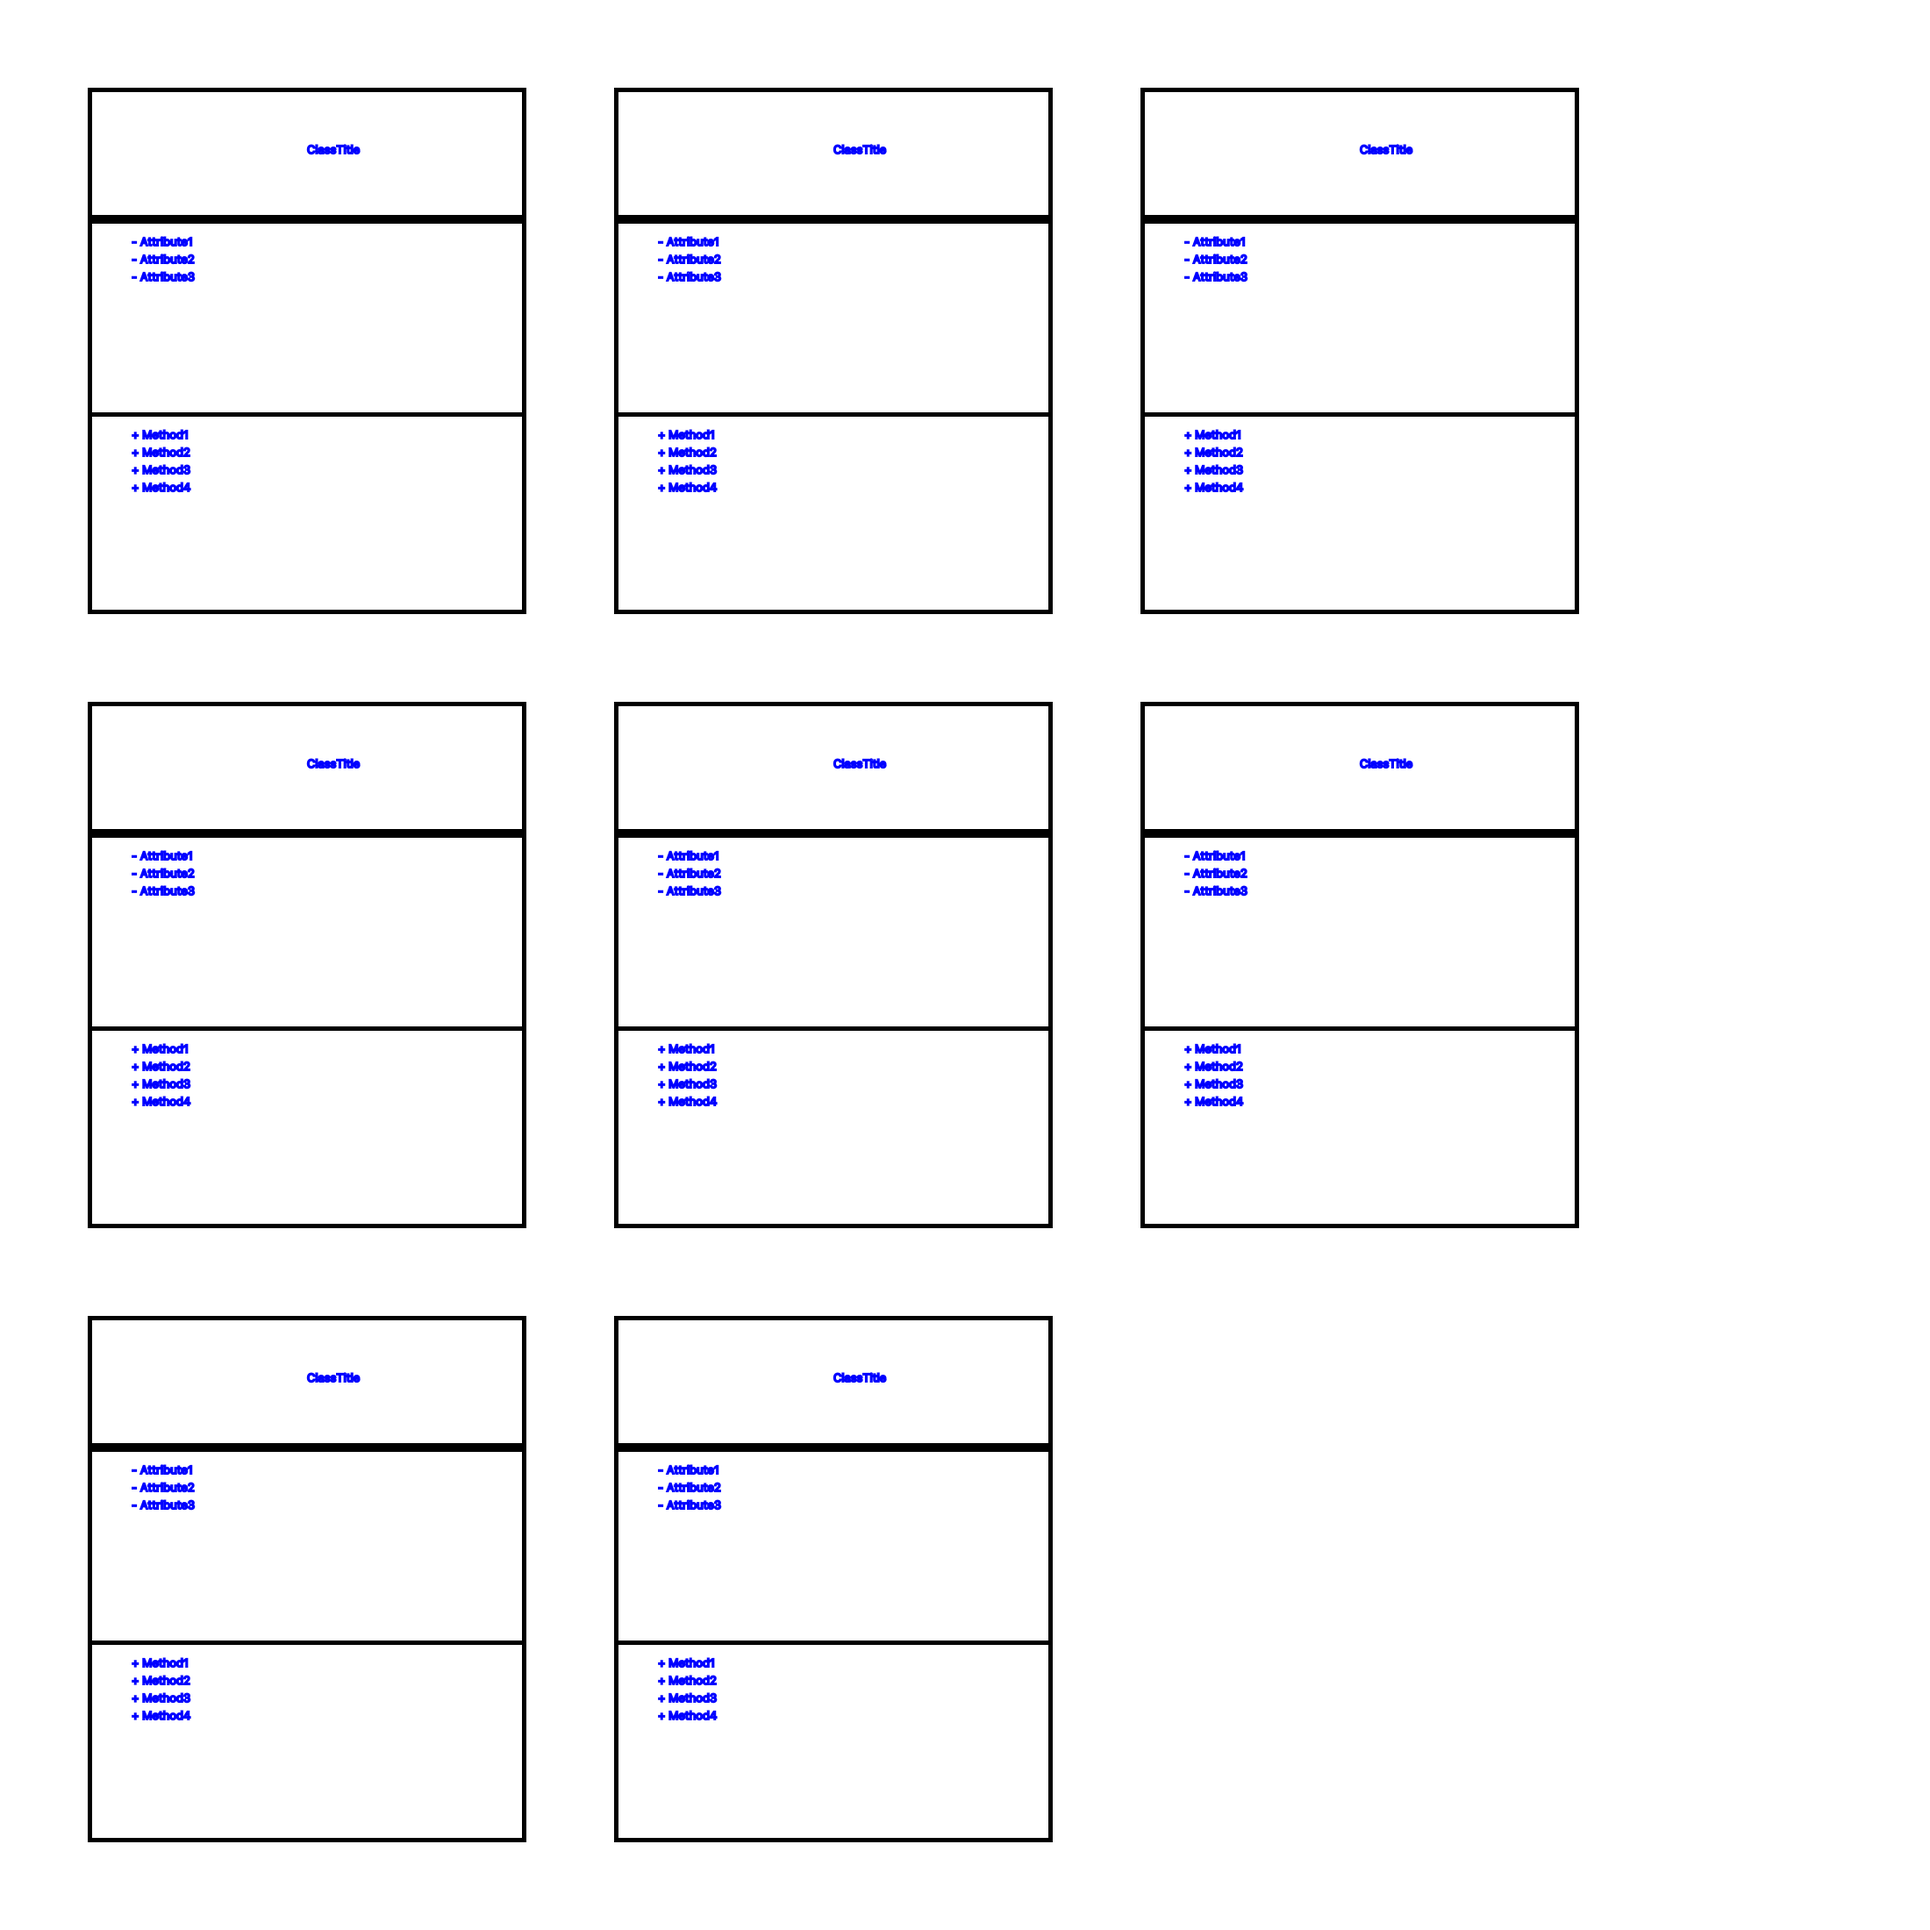
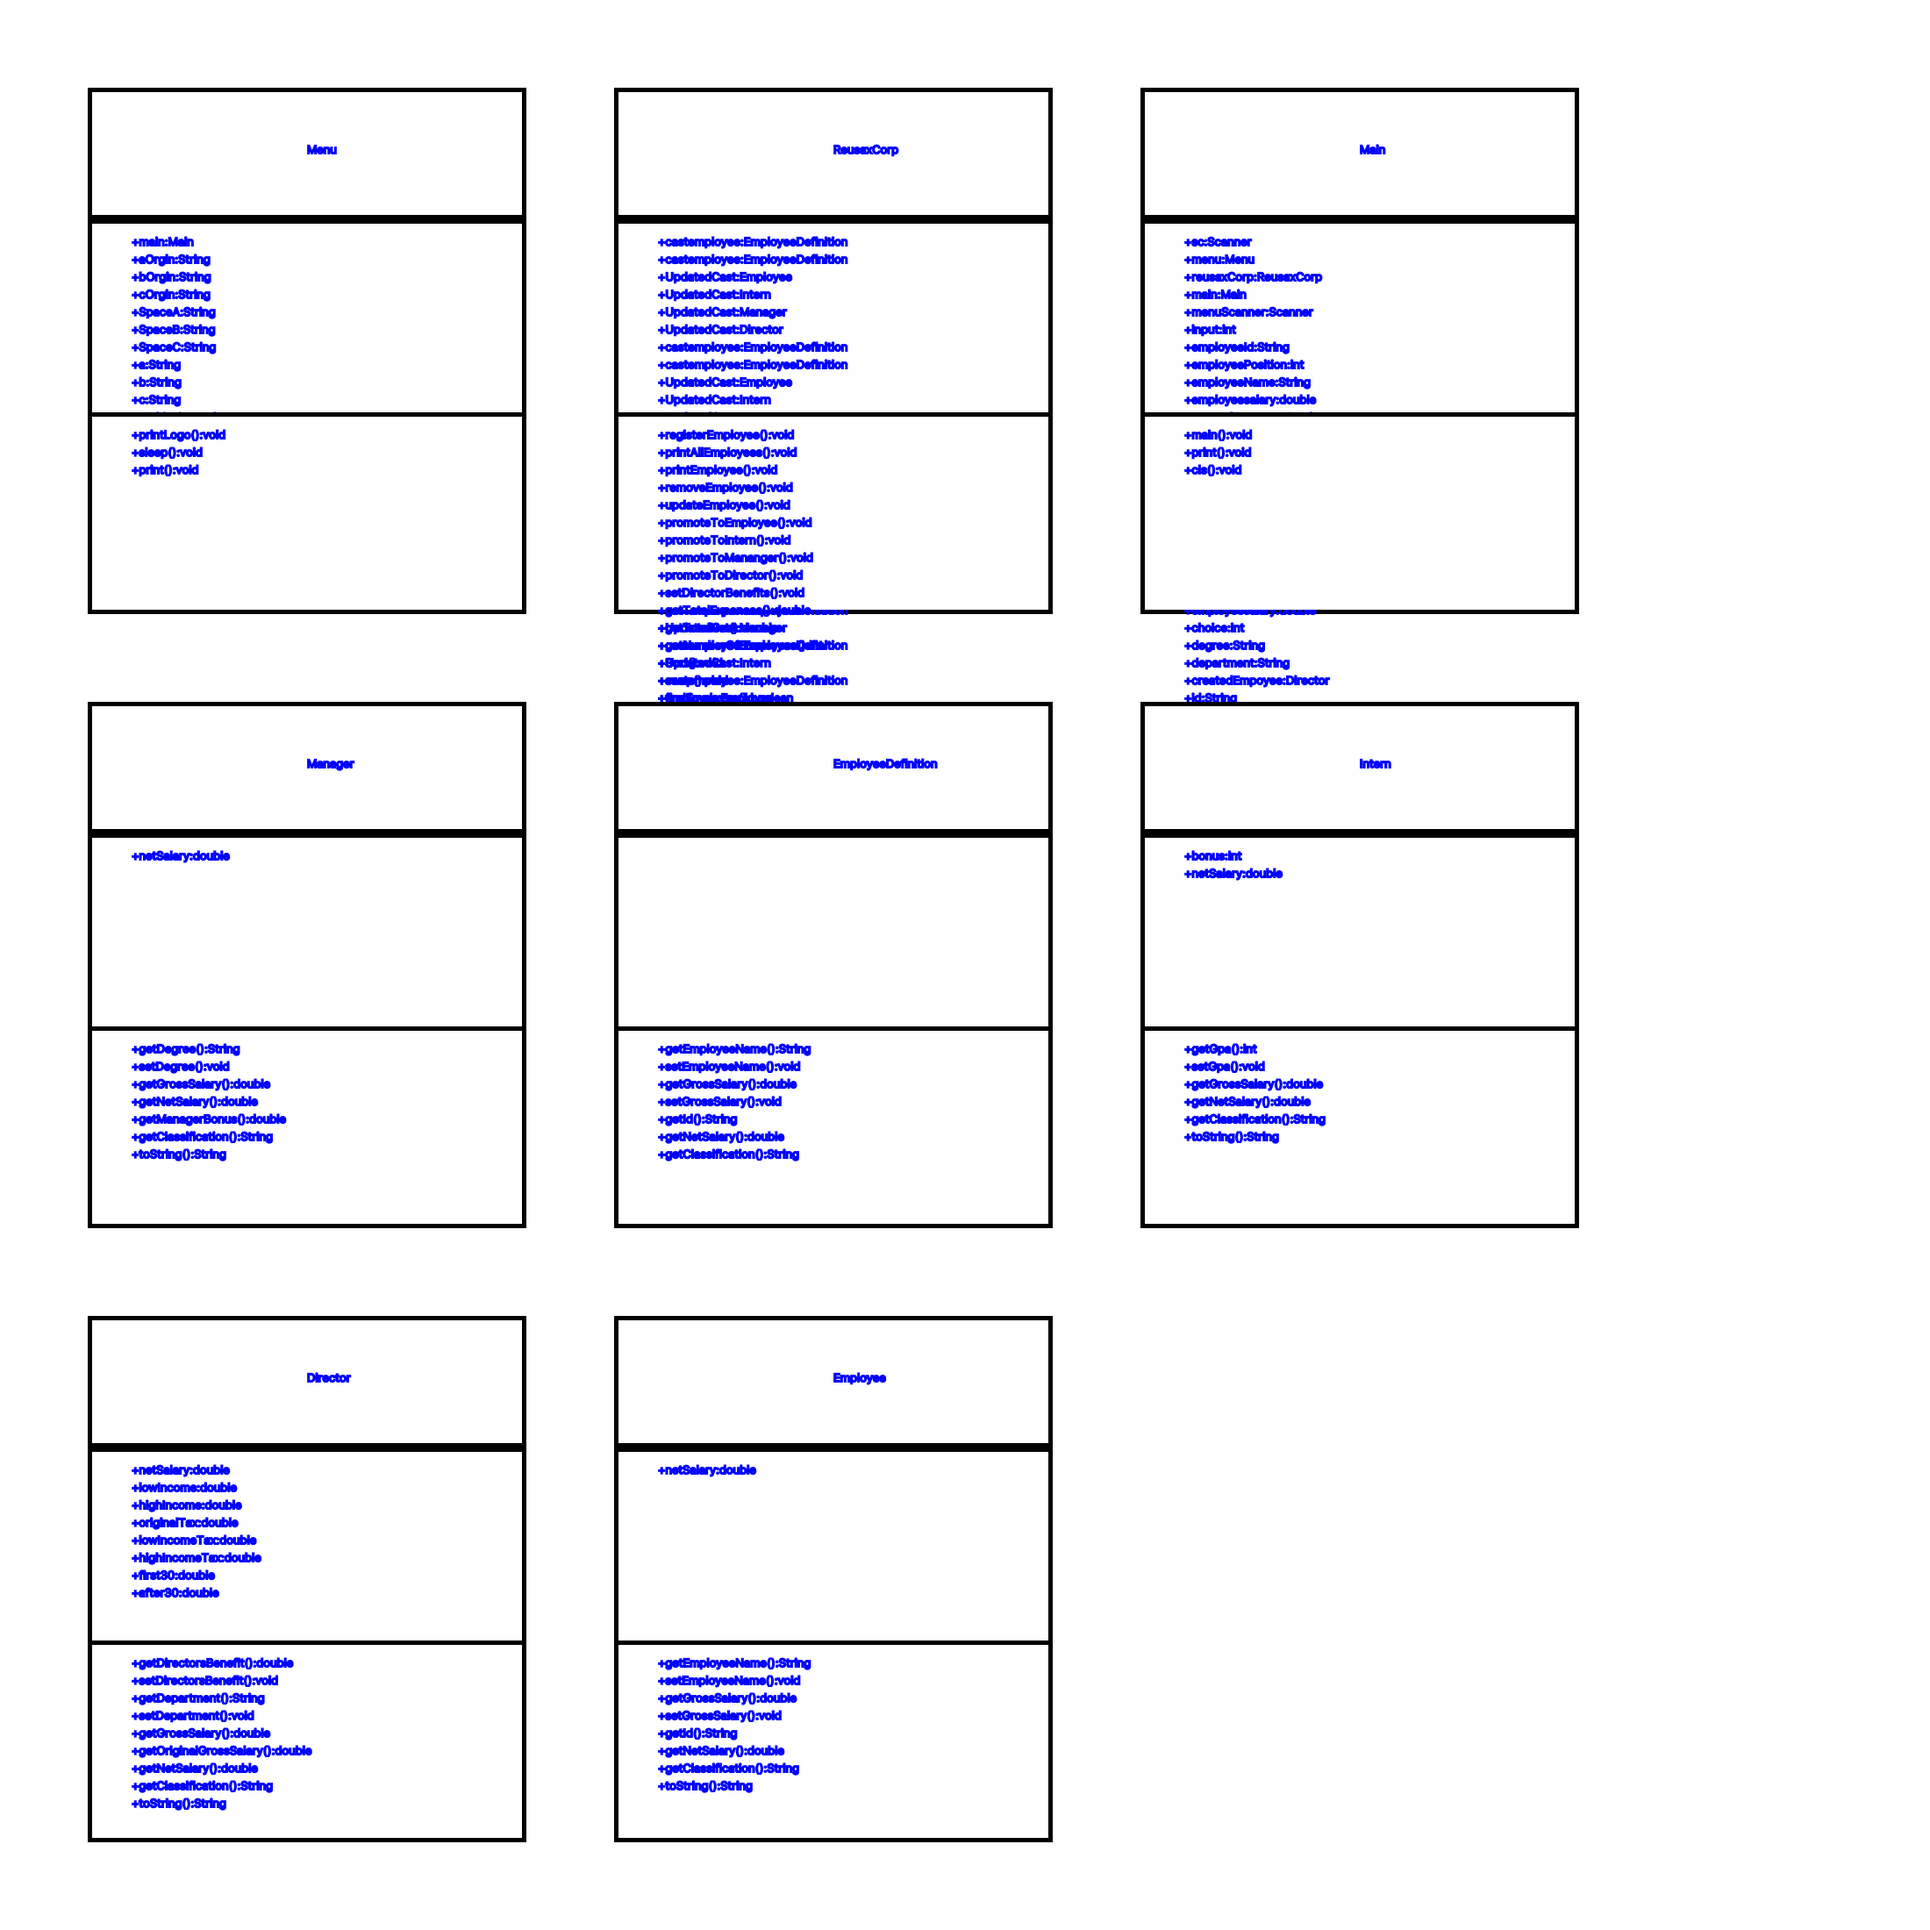
added data to the classes

diff --git a/Visualization/src/MainPackage/DrawableCLass.java b/Visualization/src/MainPackage/DrawableCLass.java
@@ -1,6 +1,8 @@
 package MainPackage;
 
+import FileClasses.Method;
 import FileClasses.UMLClass;
+import FileClasses.Variable;
 import javafx.scene.canvas.GraphicsContext;
 import javafx.scene.paint.Color;
 import javafx.scene.shape.Line;
@@ -19,8 +21,9 @@ public class DrawableCLass {
 		
 	private StandardValues standard = new StandardValues();
 	
-	public DrawableCLass(double x , double y) {
+	public DrawableCLass(double x , double y, UMLClass umlclass) {
 		super();
+		this.UMLclass = umlclass;
 		border1 = new Rectangle(x , y, standard.width, standard.height);
 	}
 	
@@ -66,7 +69,10 @@ public class DrawableCLass {
         cx.setStroke(Color.BLUE);
         boxBottomLine = rect.getHeight()/4;
 		
-		cx.strokeText("ClassTitle", rect.getX() + ((int) rect.getWidth()/2), rect.getY() + ((int) rect.getHeight()/8));
+        double titleX = rect.getX() + ((int) rect.getWidth()/2);
+        double titleY = rect.getY() + ((int) rect.getHeight()/8);
+        
+		cx.strokeText( UMLclass.name , titleX,  titleY);
 
     }
     
@@ -89,13 +95,19 @@ public class DrawableCLass {
         cx.setStroke(Color.BLUE);
 		
 		int height = 0;
-        
-        for (int i = 1; i <= 3; i++) {
-        	cx.strokeText("- Attribute" + i, rect.getX() + 50, rect.getY() + boxBottomLine + 30 + height);
+		for(int i = 0; i < UMLclass.Variables.size(); i++) {
+			
+			double attributeX = rect.getX() + 50;
+			double attributeY = rect.getY() + boxBottomLine + 30 + height;
+			
+			Variable var = UMLclass.Variables.get(i);
+			String attibuteValue = "+" + var.name + ":" + var.type;
+			
+			cx.strokeText(attibuteValue, attributeX, attributeY );
+			
         	height += 20;
-        	
-        }
-
+		}
+		
     }
 
     private void drawMethodBox(GraphicsContext cx, Rectangle rect) {
@@ -116,9 +128,16 @@ public class DrawableCLass {
         cx.setStroke(Color.BLUE);
 		
 		int height = 0;
-        
-        for (int i = 1; i <= 4; i++) {
-        	cx.strokeText("+ Method" + i, rect.getX() + 50, rect.getY() + boxBottomLine + boxBottomLine2 + 30 + height);
+		for(int i = 0; i < UMLclass.Methods.size(); i++) {
+			
+			double methodX = rect.getX() + 50;
+			double methodY = rect.getY() + boxBottomLine + boxBottomLine2 + 30 + height;
+			
+			Method var = UMLclass.Methods.get(i);
+			String methodValue = "+" + var.name + "():" + var.returnType;
+			
+        	cx.strokeText(methodValue, methodX , methodY );
+        	
         	height += 20;
         	
         }

diff --git a/Visualization/src/MainPackage/canvas.java b/Visualization/src/MainPackage/canvas.java
@@ -4,13 +4,9 @@ import java.io.File;
 import java.util.ArrayList;
 
 import javax.imageio.ImageIO;
-
-import com.esotericsoftware.kryonet.Server;
 import com.google.gson.Gson;
 import com.google.gson.JsonArray;
 import com.google.gson.JsonObject;
-import com.sun.corba.se.impl.orbutil.graph.Graph;
-
 import FileClasses.UMLClass;
 import FileClasses.UMLPackage;
 import TCP.RunnableArg;
@@ -19,12 +15,6 @@ import TCP.TCP_data;
 import javafx.application.Application;
 import javafx.embed.swing.SwingFXUtils;
 import javafx.stage.Stage;
-import javafx.scene.Group;
-import javafx.scene.Scene;
-import javafx.stage.Stage;
-import javafx.scene.shape.Rectangle;
-import javafx.scene.*;
-import javafx.scene.paint.*;
 import javafx.scene.canvas.*;
 import javafx.scene.image.WritableImage;
 
@@ -184,7 +174,7 @@ public class canvas extends Application {
 
 		for (int i = 0; i < umlClasses.size(); i++) {
 
-			classes[Y][X] = createClass(Y, X);
+			classes[Y][X] = createClass(Y, X , umlClasses.get(i));
 
 			// : checks for new row.
 			if (X == sqr) {
@@ -199,7 +189,7 @@ public class canvas extends Application {
 
 	}
 
-	public DrawableCLass createClass(int y, int x) {
+	public DrawableCLass createClass(int y, int x, UMLClass umlClass) {
 
 		double ClassX = getpreviousX(y, x);
 		double ClassY = getpreviousY(y, x);
@@ -207,7 +197,7 @@ public class canvas extends Application {
 		ClassX += StandardValues.padding;
 		ClassY += StandardValues.padding;
 
-		DrawableCLass newClass = new DrawableCLass(ClassX, ClassY);
+		DrawableCLass newClass = new DrawableCLass(ClassX, ClassY, umlClass);
 
 		return newClass;
 
